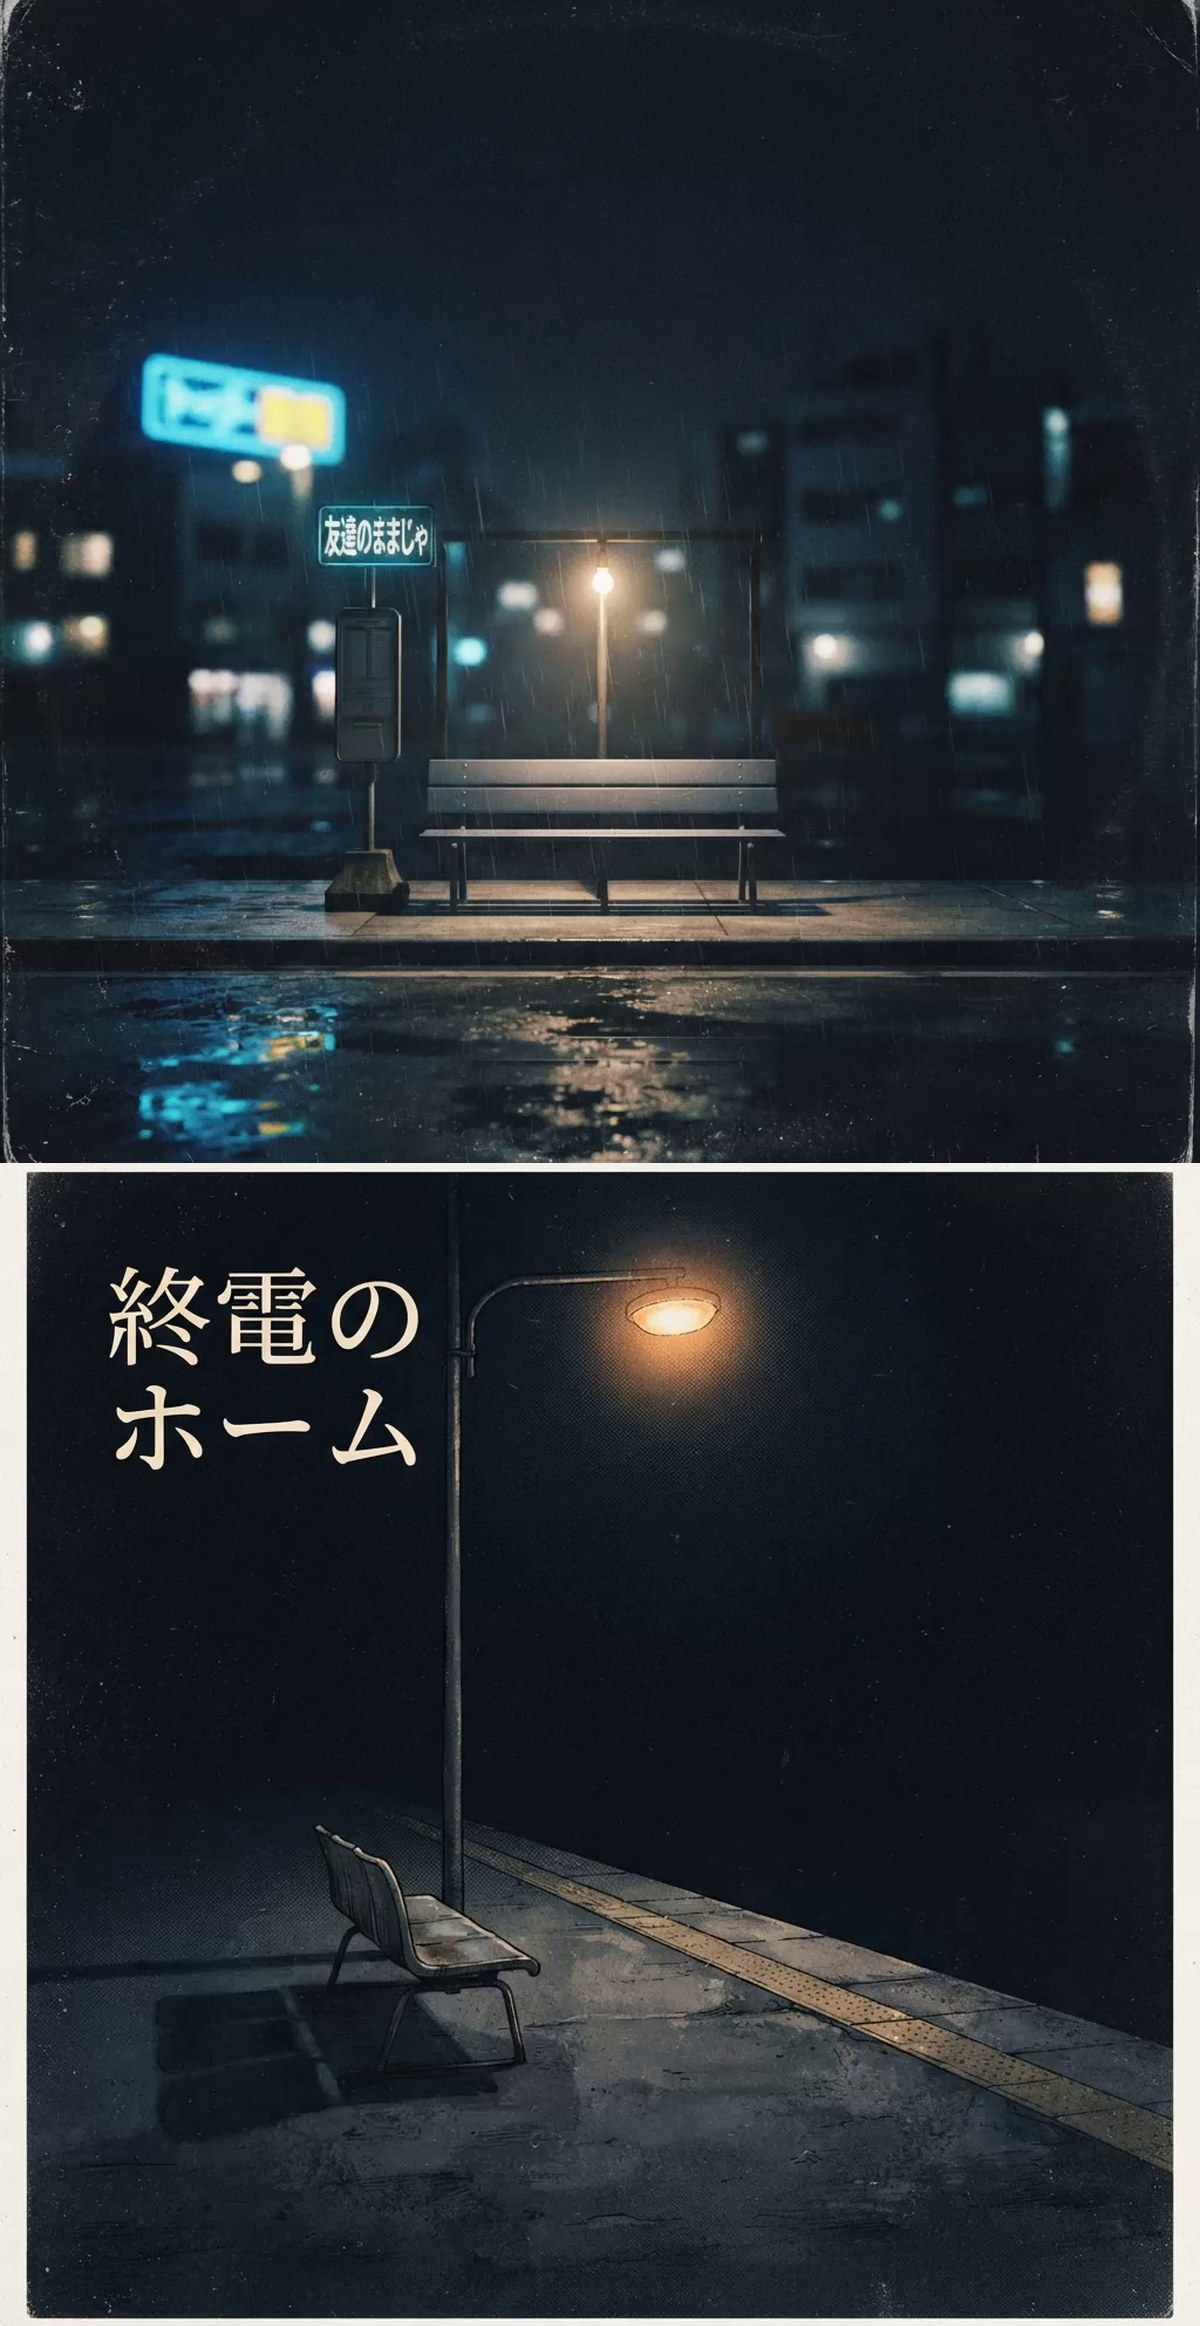
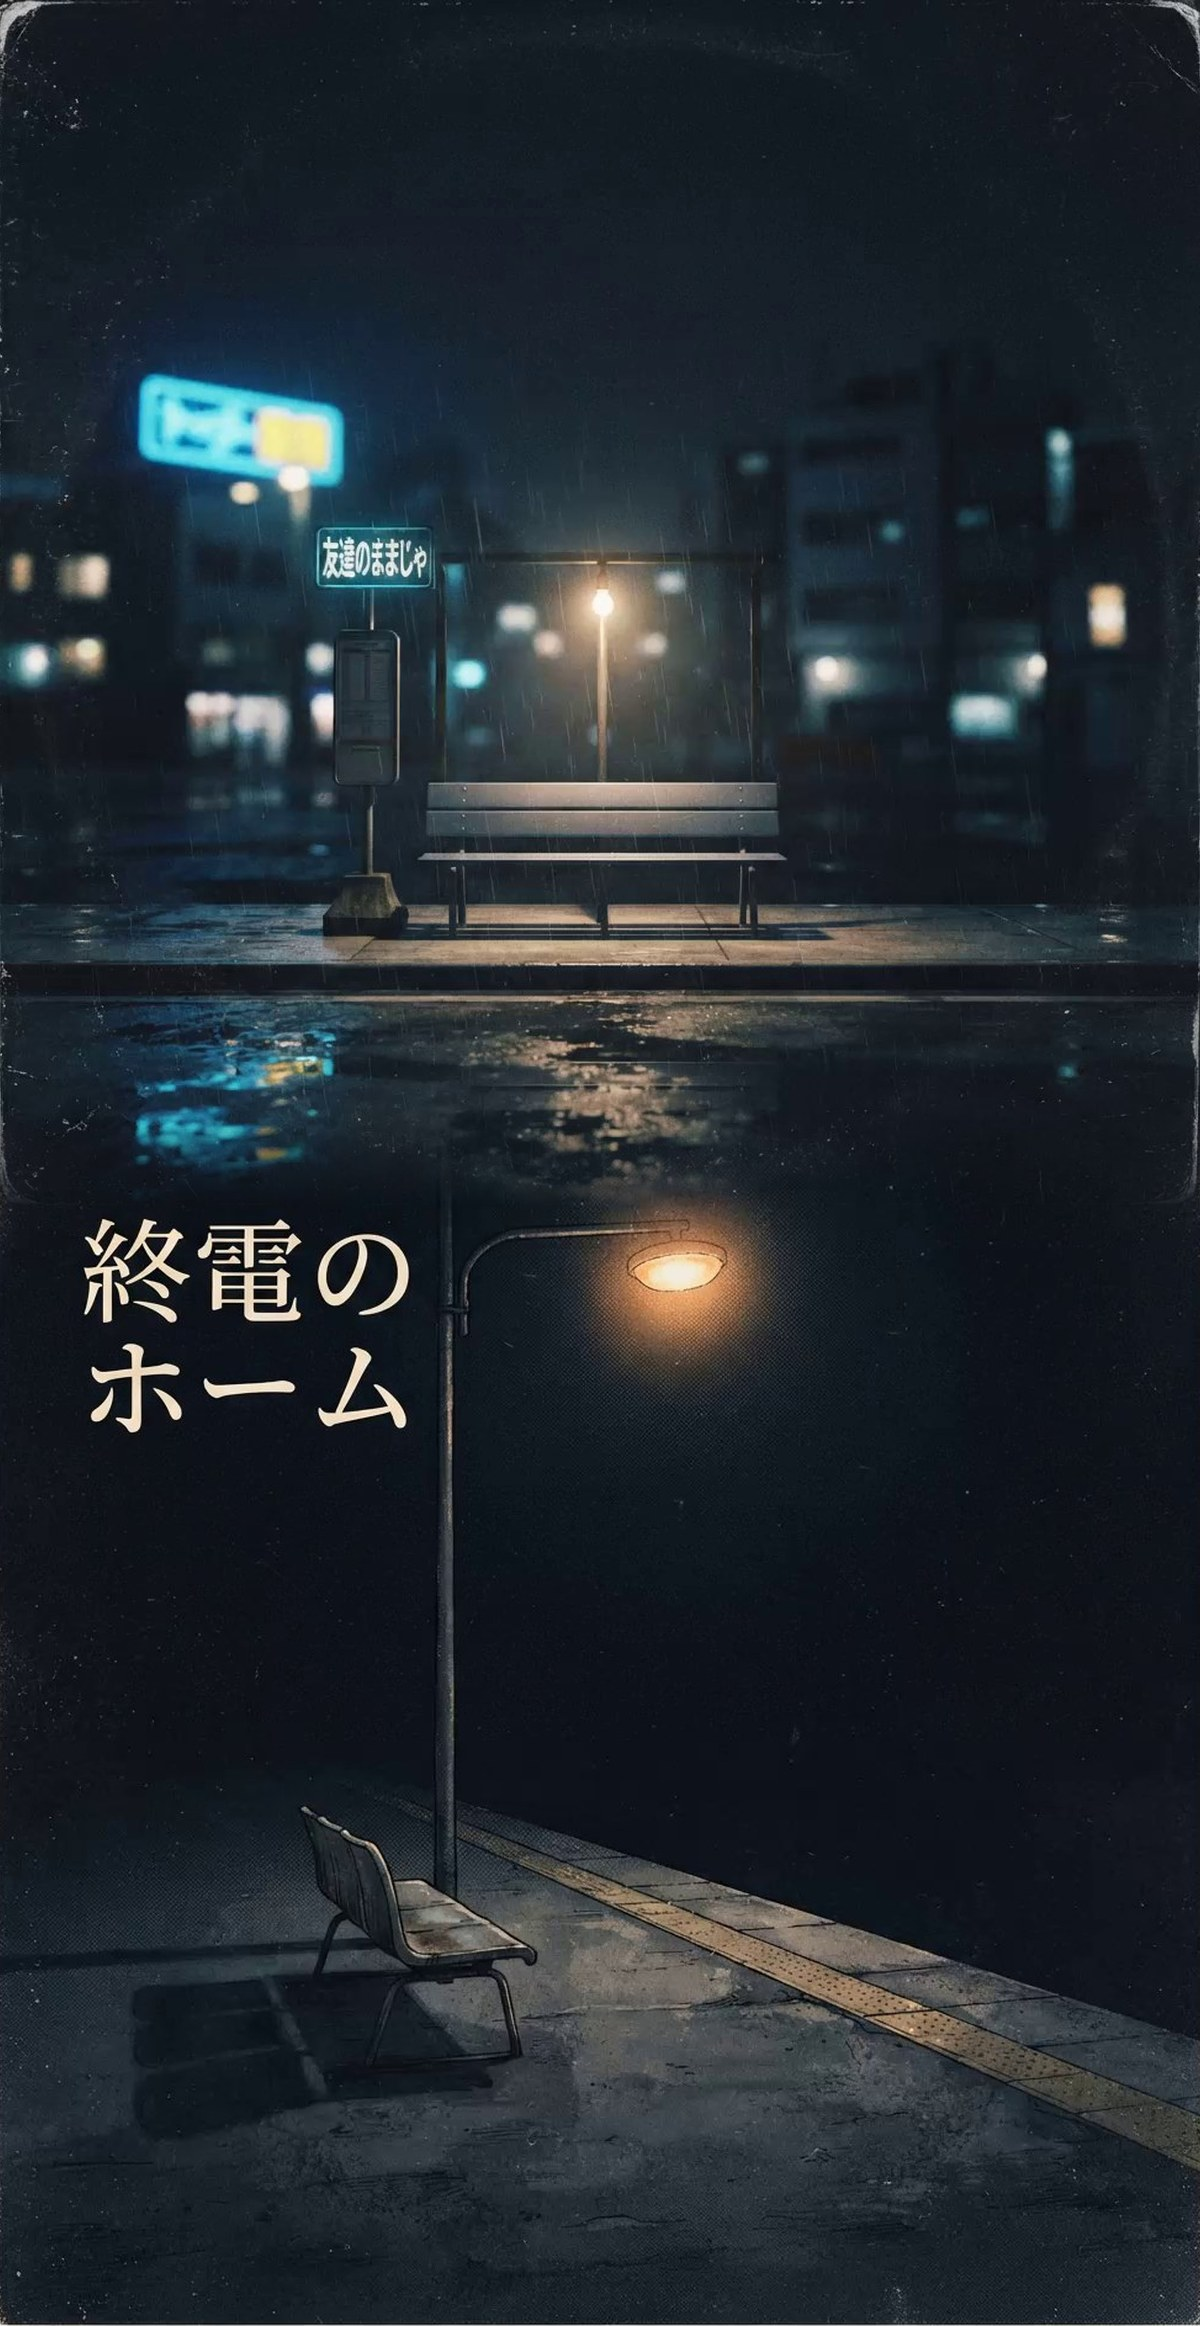
裏面画像をなじませ、ノートにボーナストラックの説明を追加 (v1.1.1) (#5)
- back.jpg を作り直し: 『終電のホーム』のカバー絵に焼き込まれた紙色の
  白枠(四辺22px)を裏面用には除き、内側の絵だけを使用。上下の継ぎ目には
  約90pxのクロスフェードを入れて、2枚の夜景が溶け合うようにした。
  再生画面の track02.jpg は変更なし。
- ライナーノートにボーナストラックの説明(その夜の午前二時…隠し玉)を
  追加。裏面パネルに収まる総量は変えないよう、既存の文を削って相殺。

diff --git a/src/album/album.ts b/src/album/album.ts
@@ -24,9 +24,9 @@ export const FOOT_NOTE = `${ALBUM.catalog} ／ ${ALBUM.format}`;
 
 /** 裏面ノートの本文（シングルではブックレットの代わりにジャケット裏面へ置く） */
 export const NOTE: string[] = [
-  'カラオケボックスの笑い声から、終電前のバス停まで。言えなかった想いが、やっと手のひらに届くまでのひとつの夜を、短冊に閉じ込めた。',
-  '表題曲は、告白の歌。「ただの友達」という名前の檻の中で震えていた手が、近づくバスのヘッドライトに背中を押されて、届かないはずの距離を踏み越えていく。',
-  'カップリングは、同じ夜のもう一つの歌。カラオケの熱気と、終電間際のホームの冷たい風。隠しきれなかった想いは、「僕らだけの、光」になって残る。',
+  'カラオケの笑い声から、終電前のバス停まで。言えなかった想いが届くまでの夜を、短冊に閉じ込めた。',
+  '表題曲は、告白の歌。「ただの友達」という檻の中で震えていた手が、バスのヘッドライトに押されて、届かないはずの距離を踏み越えていく。',
+  'カップリングは、同じ夜のもう一つの歌。終電間際のホームの冷たい風と、隠しきれなかった想いは「僕らだけの、光」になって残る。ボーナストラックはその夜の午前二時、ただの友達という境界線の上で揺れる隠し玉。',
 ];
 
 /** ライナーノーツ（アルバム形態のブックレット冒頭。本文は NOTE と共通） */

diff --git a/docs/HANDOVER.md b/docs/HANDOVER.md
@@ -2,7 +2,7 @@
 
 作業の区切りごとに書き直す(次の作業を始める人や AI が、ここだけ読めば再開できるように)。古くなった内容は消し、今の状態だけを残す。
 
-更新: 2026-11-04・版 v1.1.0(ボーナストラック追加)
+更新: 2026-11-04・版 v1.1.1(裏面画像のなじみ改善+ノートにボーナストラックの説明)
 
 ## 今の状態
 
@@ -26,7 +26,8 @@
 
 - 歌詞の時刻の付け方: 字幕(mov_text)の歌詞を正とし、開始時刻は whisper(small・no-VAD)の単語レベルで照合した。推定を含む箇所: 『終電のホーム』最終行「僕らだけの、光。」(155.8秒、静かな歌唱で一致が弱い)。気になれば該当行の時刻だけ直す。
 - 『午前二時の境界線』の時刻付け(v1.1.0): 単語レベルの照合の際、歌のない断片(冒頭の雑音セグメントと、間奏の「Ah…」の2字)を除外してから対応付けし、別モデル(medium)のセグメント時刻とも突き合わせた。字幕の3行窓は実唱より先行する(実唱は12行目と13行目のあいだに約83〜105秒の長い間奏がある)。sync は実唱どおり全20行。教訓: 混入した断片を除かないと、行の対応が1つずれて全行がずれる(NK-S003 の v1.0.1 でも同じ事故があった)。
-- 裏面ノート(NOTE)は3段落で裏面パネルのスクリムにちょうど収まる長さ。文章を足すと最終行がスクリムの外にはみ出すので、足すなら既存分を削ってからにする。
+- 裏面ノート(NOTE)は3段落で裏面パネルのスクリムにちょうど収まる長さ。文章を足すと最終行がスクリムの外にはみ出すので、足すなら既存分を削って相殺する(v1.1.1 でボーナストラックの説明を入れる際に実施)。
+- 裏面の結合画像(back.jpg)は v1.1.1 で作り直した: 下半分の『終電のホーム』のカバー絵には紙色の白枠(実測 四辺22px)が焼き込まれていて浮いていたため、裏面用には枠を除いた内側の絵(22,22)-(1002,1002)だけを使い、継ぎ目に約90pxのクロスフェードを入れて2枚の夜景をなじませた。再生成は作業場の work/make_back.py。再生画面の track02.jpg は元のまま(枠あり)。
 - 表ジャケットは実物の8cmシングル(短冊)の様式調査(docs/SINGLE-DESIGN-STUDY.md)の**型C(1996–99: 写真主役+小さい静かな文字)**で作った: 主ビジュアルはライナーノートの世界観(雨のバス停、バスのヘッドライト、手を取り合う二人、ひとつに重なる影、水彩風)を生成し、白枠を実測して切り抜いたうえで文字(左上に明朝体のタイトル+ローマ字、最下部に曲目と NK-S002 STEREO の小字クレジット)を合成した。折り目の演出はない(オーナー指示)。裏面の結合画像は各曲ジャケットを上下に並べたもの。差し替える場合は 1200×2326(1:1.938)で jacket.jpg を置き換え、アイコンも作り直す(scripts/make-icons.mjs の手順コメント参照)。
 - Netlify は使わない(サウンド単行本の納品枠を温存する決まり)。公開は GitHub Pages のみ。
 
